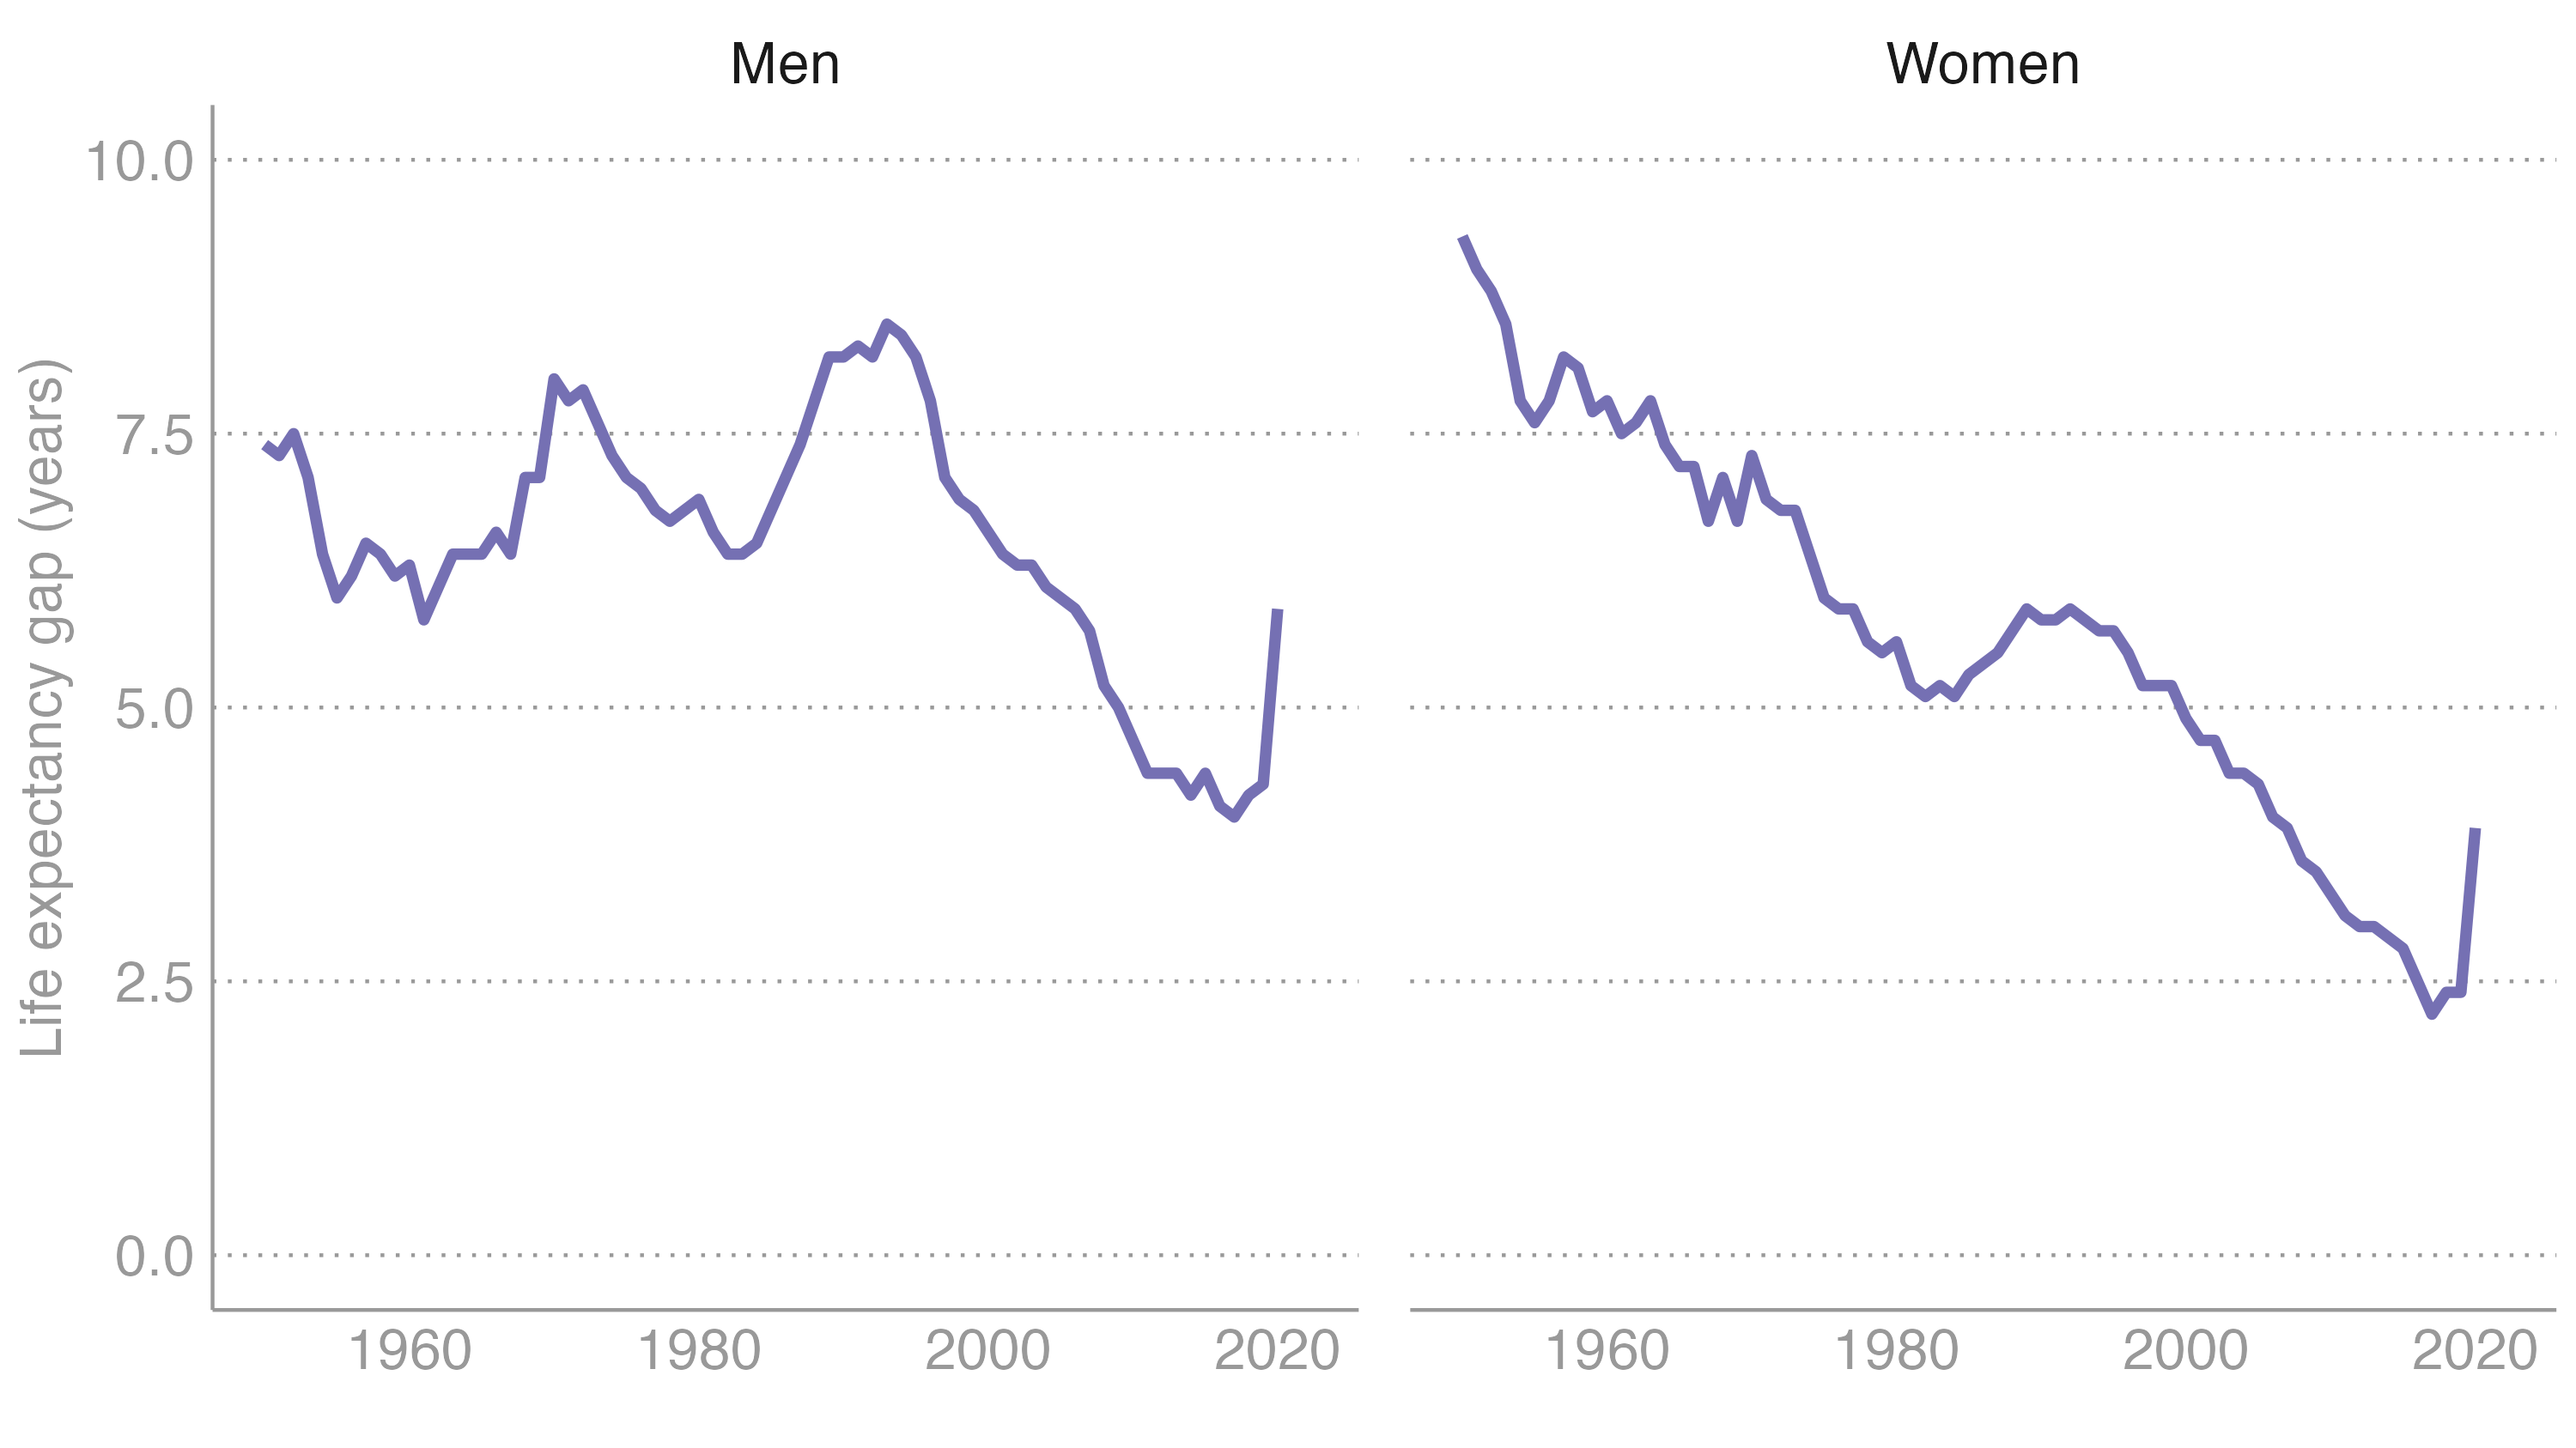
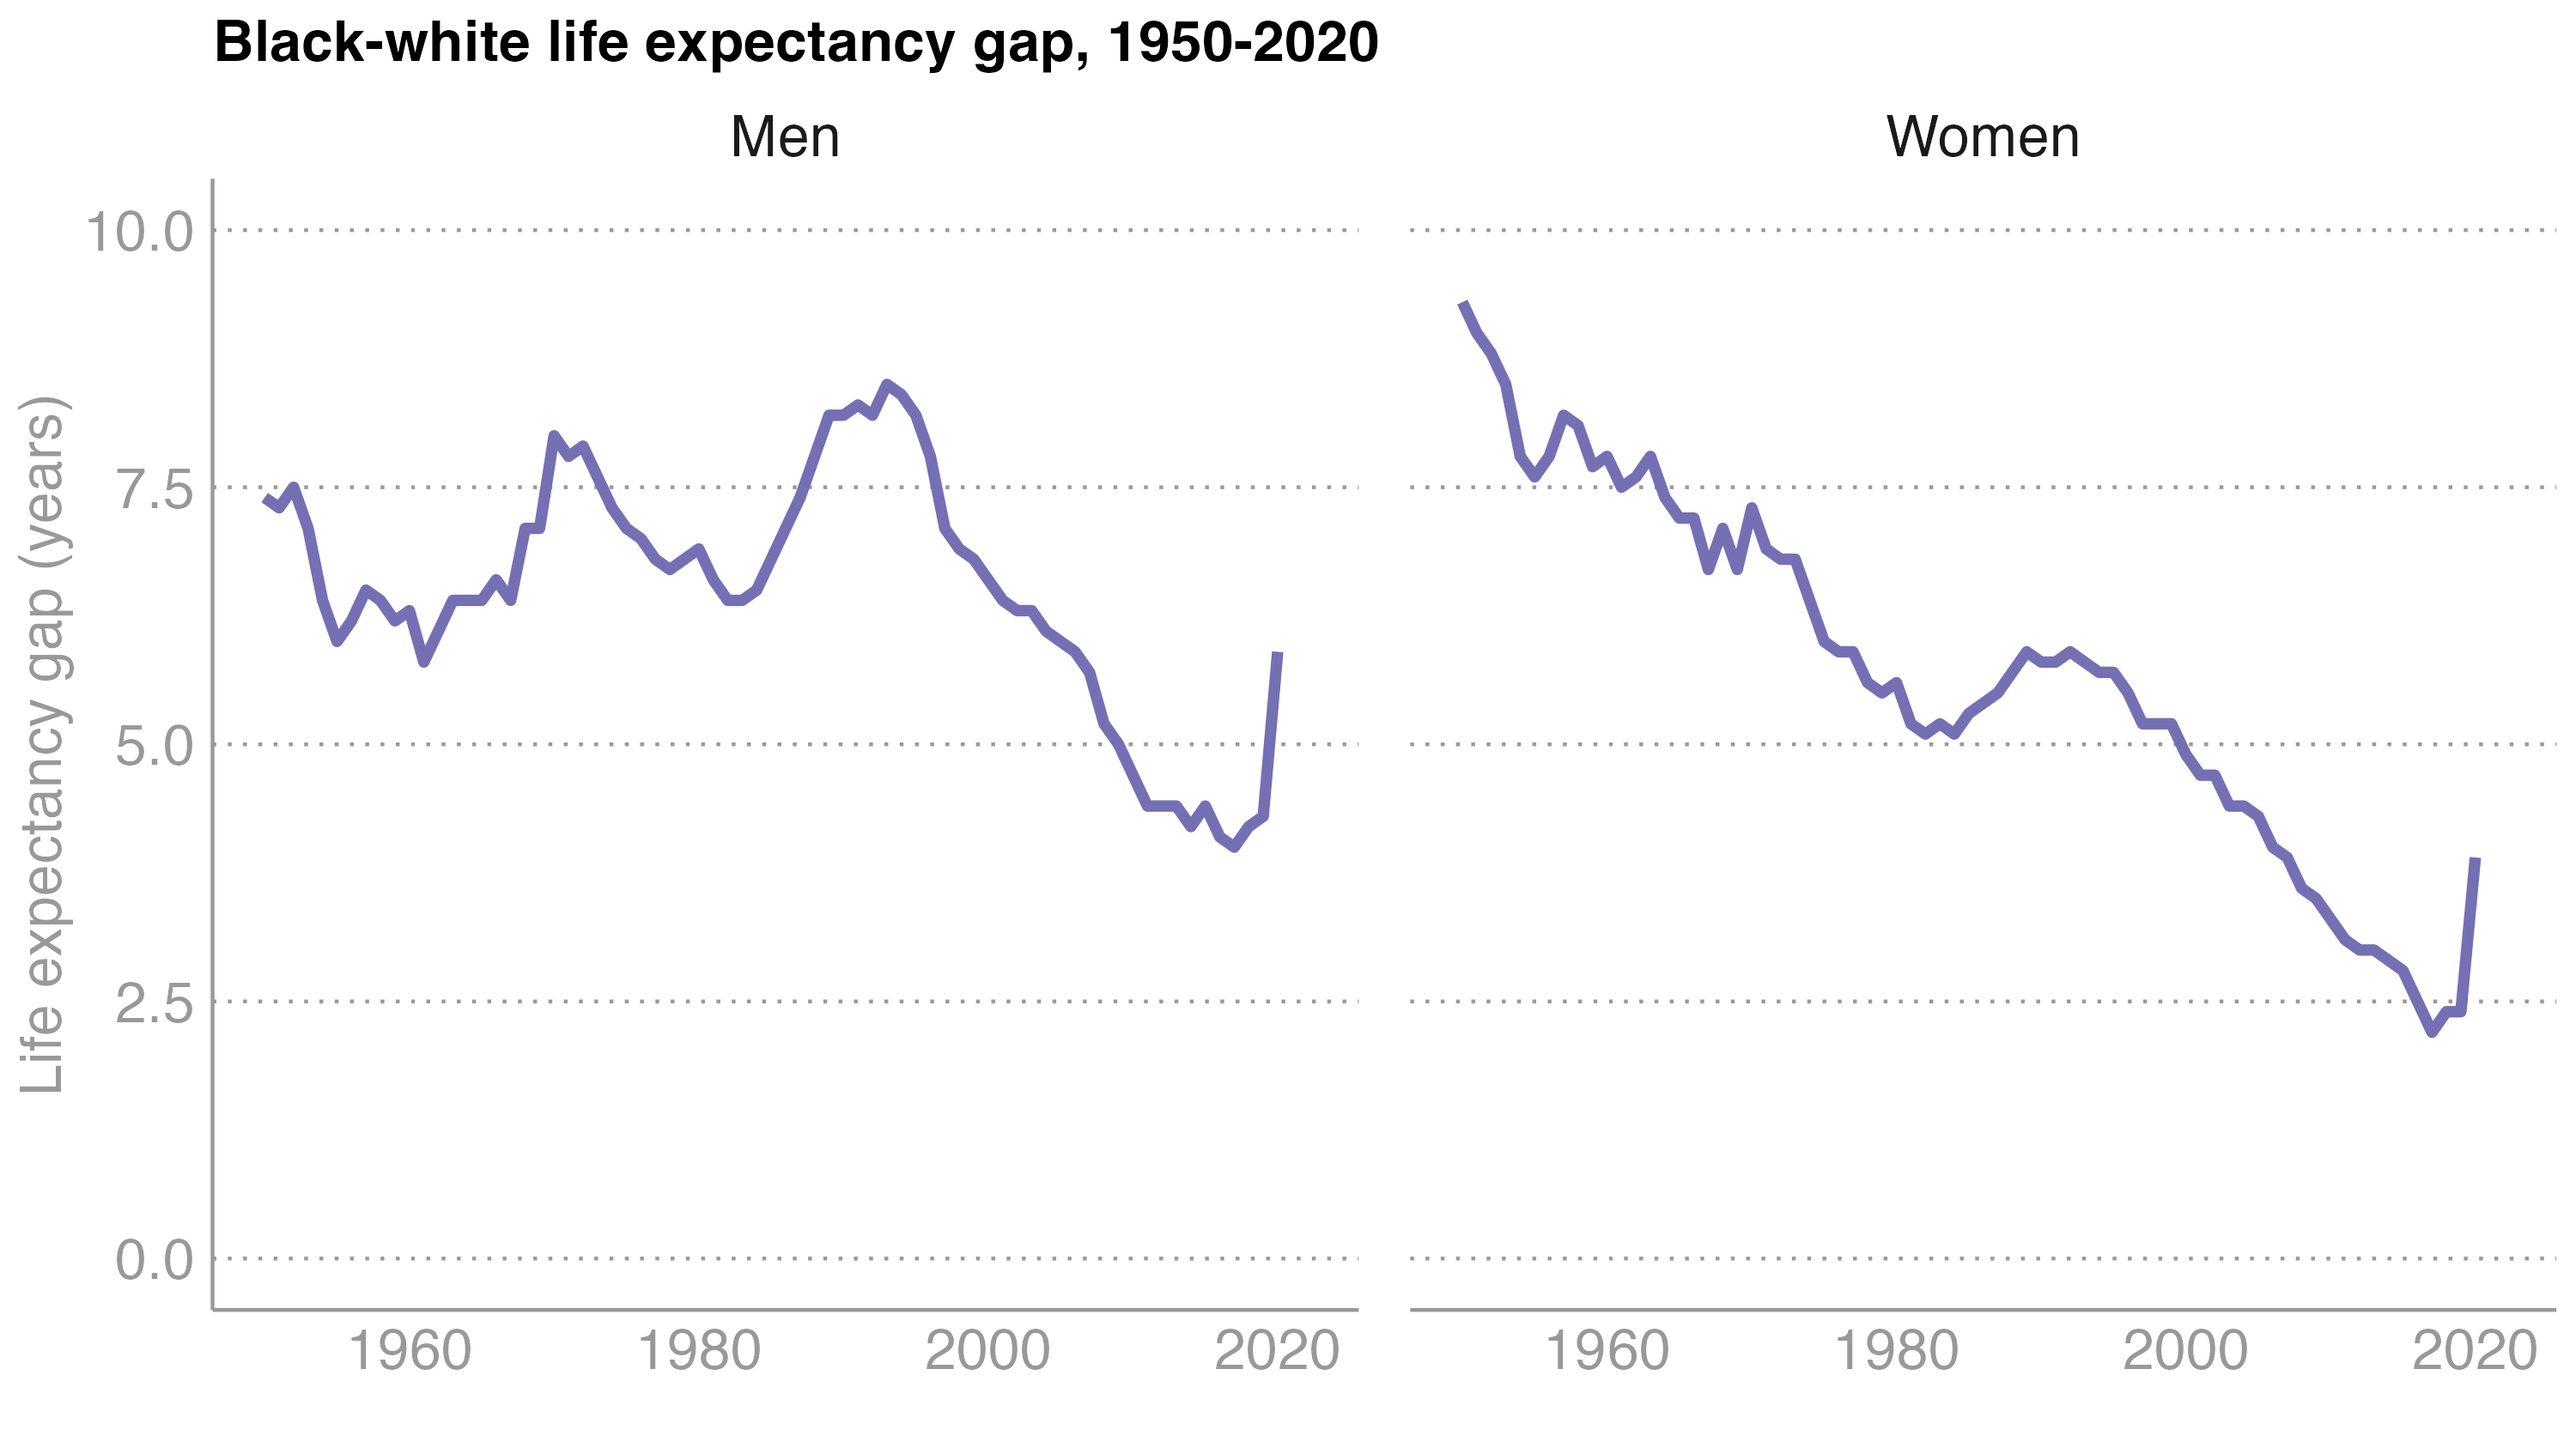
Draft version

diff --git a/nasem.html b/nasem.html
@@ -435,12 +435,22 @@ Sam Harper
 <aside><div>
 <p><span class="citation" data-cites="Persmark:2020aa">Persmark et al. (<a href="#/references" role="doc-biblioref" onclick="">2020</a>)</span> on the probability of reporting opioid use disorder.</p>
 </div></aside></section>
-<section id="section-3" class="slide level2">
+<section id="section-3" class="slide level2 center">
+<h2></h2>
+<h3 id="decomposition-also-provides-opportunities-to-reconcile-trends-and-explanations-for-inequalities.">Decomposition also provides opportunities to reconcile trends and explanations for inequalities.</h3>
+</section>
+<section id="section-4" class="slide level2">
+<h2><img data-src="images/le-trends-bw.png"></h2>
+
+<aside><div>
+<p>Source: Author’s calculations.</p>
+</div></aside></section>
+<section id="section-5" class="slide level2">
 <h2></h2>
 <blockquote>
 <p>“Black males live seven years less than white males…That basic gap hasn’t changed in half a century”</p>
 </blockquote>
-<p>John Dorschner, <em>The Minority Health Crisis</em>, Miami Herald, Sept 13, 2004</p>
+<p>John Dorschner, <em>The Minority Health Crisis</em>, Miami Herald, 2004</p>
 <blockquote>
 <p>“…improving the socioeconomic conditions of African American families and communities is a prerequisite to…reducing the Black-White gap in health.”</p>
 </blockquote>
@@ -450,22 +460,7 @@ Sam Harper
 </blockquote>
 <p>Robert Wood Johnson Foundation, <a href="commissiononhealth.org/WhatDrivesHealth.aspx"><em>What Drives Health</em></a>, 2016</p>
 </section>
-<section id="section-4" class="slide level2">
-<h2></h2>
-<div class="columns">
-<div class="column" style="width:30%;">
-<blockquote>
-<p>“Black males live seven years less than white males…That basic gap hasn’t changed in half a century”</p>
-</blockquote>
-</div><div class="column" style="width:70%;">
-<p><img data-src="images/le-trends-bw.png"></p>
-</div>
-</div>
-
-<aside><div>
-<p>John Dorschner, <em>The Minority Health Crisis</em>, Miami Herald, Sept 13, 2004</p>
-</div></aside></section>
-<section id="section-5" class="slide level2">
+<section id="section-6" class="slide level2">
 <h2></h2>
 <div class="columns">
 <div class="column" style="width:20%;">
@@ -481,7 +476,7 @@ Sam Harper
 <aside><div>
 <p>Source: Author’s calculations.</p>
 </div></aside></section>
-<section id="section-6" class="slide level2">
+<section id="section-7" class="slide level2">
 <h2></h2>
 <div class="columns">
 <div class="column" style="width:35%;">
@@ -501,7 +496,7 @@ Sam Harper
 <aside><div>
 <p><span class="citation" data-cites="Harper:2007aa">Harper et al. (<a href="#/references" role="doc-biblioref" onclick="">2007</a>)</span></p>
 </div></aside></section>
-<section id="section-7" class="slide level2">
+<section id="section-8" class="slide level2">
 <h2></h2>
 <div class="columns">
 <div class="column" style="width:40%;">
@@ -529,7 +524,7 @@ Sam Harper
 <aside><div>
 <p><span class="citation" data-cites="Case:2020aa">Case and Deaton (<a href="#/references" role="doc-biblioref" onclick="">2020</a>)</span>. Also see <span class="citation" data-cites="Case:2015aa">Case and Deaton (<a href="#/references" role="doc-biblioref" onclick="">2015</a>)</span></p>
 </div></aside></section>
-<section id="section-8" class="slide level2">
+<section id="section-9" class="slide level2">
 <h2></h2>
 <div class="columns">
 <div class="column" style="width:50%;">
@@ -544,14 +539,14 @@ Sam Harper
 </div>
 </div>
 </section>
-<section id="section-9" class="slide level2" data-background-image="images/snyder-syringe.jpg" data-background-opacity="0.25">
+<section id="section-10" class="slide level2" data-background-image="images/snyder-syringe.jpg" data-background-opacity="0.25">
 <h2></h2>
 <h3 id="the-rural-opioid-crisis-of-prescription-drugs-is-largely-a-story-of-growing-spatial-inequality-and-of-places-left-behind.">“The rural opioid crisis of prescription drugs is largely a story of growing spatial inequality and of places left behind.”</h3>
 
 <aside><div>
 <p>Source: Richard Florida, <a href="https://www.bloomberg.com/news/articles/2019-12-05/how-opioid-deaths-differ-in-rural-and-urban-areas">Bloomberg</a>, Dec 5, 2019</p>
 </div></aside></section>
-<section id="section-10" class="slide level2">
+<section id="section-11" class="slide level2">
 <h2></h2>
 <div class="columns">
 <div class="column" style="width:20%;">
@@ -565,21 +560,36 @@ Sam Harper
 <aside><div>
 <p>Source: Author’s calculations.</p>
 </div></aside></section>
-<section id="section-11" class="slide level2">
+<section id="section-12" class="slide level2">
 <h2></h2>
 <p>Years of life lost 2014-2017, by gender, race, cause <img data-src="images/harper-decomp-2021-m.png"></p>
 
 <aside><div>
 <p><span class="citation" data-cites="Harper:2021aa">Harper et al. (<a href="#/references" role="doc-biblioref" onclick="">2021</a>)</span></p>
 </div></aside></section>
-<section id="section-12" class="slide level2">
+<section id="section-13" class="slide level2">
 <h2></h2>
 <p>Years of life lost 2014-2017, by gender, race, cause <img data-src="images/harper-decomp-2021-w.png" style="width:110.0%"></p>
 
 <aside><div>
 <p><span class="citation" data-cites="Harper:2021aa">Harper et al. (<a href="#/references" role="doc-biblioref" onclick="">2021</a>)</span></p>
 </div></aside></section>
-<section id="section-13" class="slide level2">
+<section id="section-14" class="slide level2">
+<h2></h2>
+<div class="columns">
+<div class="column" style="width:45%;">
+
+</div><div class="column" style="width:5%;">
+
+</div><div class="column" style="width:50%;">
+<p><img data-src="images/pew-2022.png"></p>
+</div>
+</div>
+
+<aside><div>
+<p>Source: <a href="https://www.pewresearch.org/short-reads/2022/01/19/recent-surge-in-u-s-drug-overdose-deaths-has-hit-black-men-the-hardest/ft_22-01-12_drugoverdoses_1/">Pew Research Center</a></p>
+</div></aside></section>
+<section id="section-15" class="slide level2">
 <h2></h2>
 <div class="columns">
 <div class="column" style="width:45%;">
